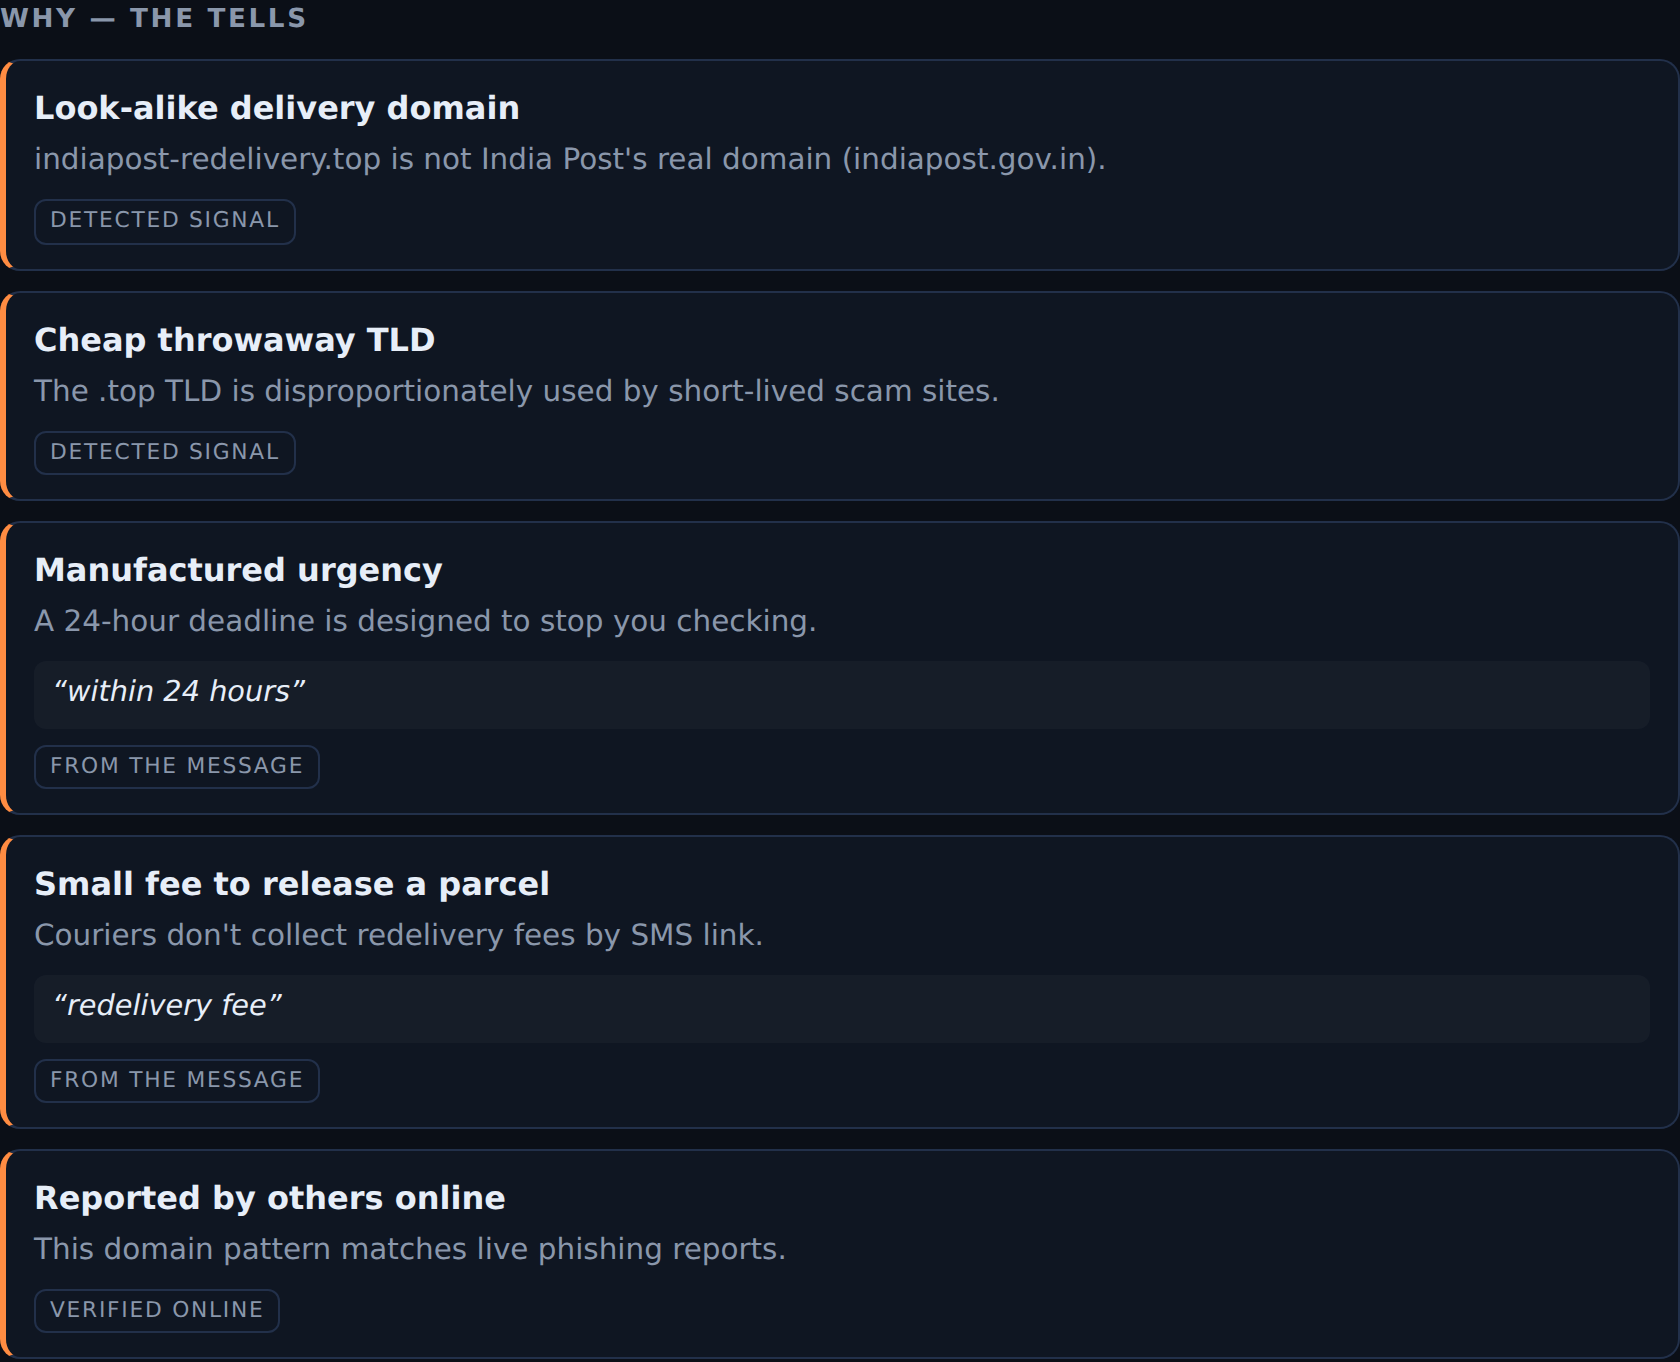
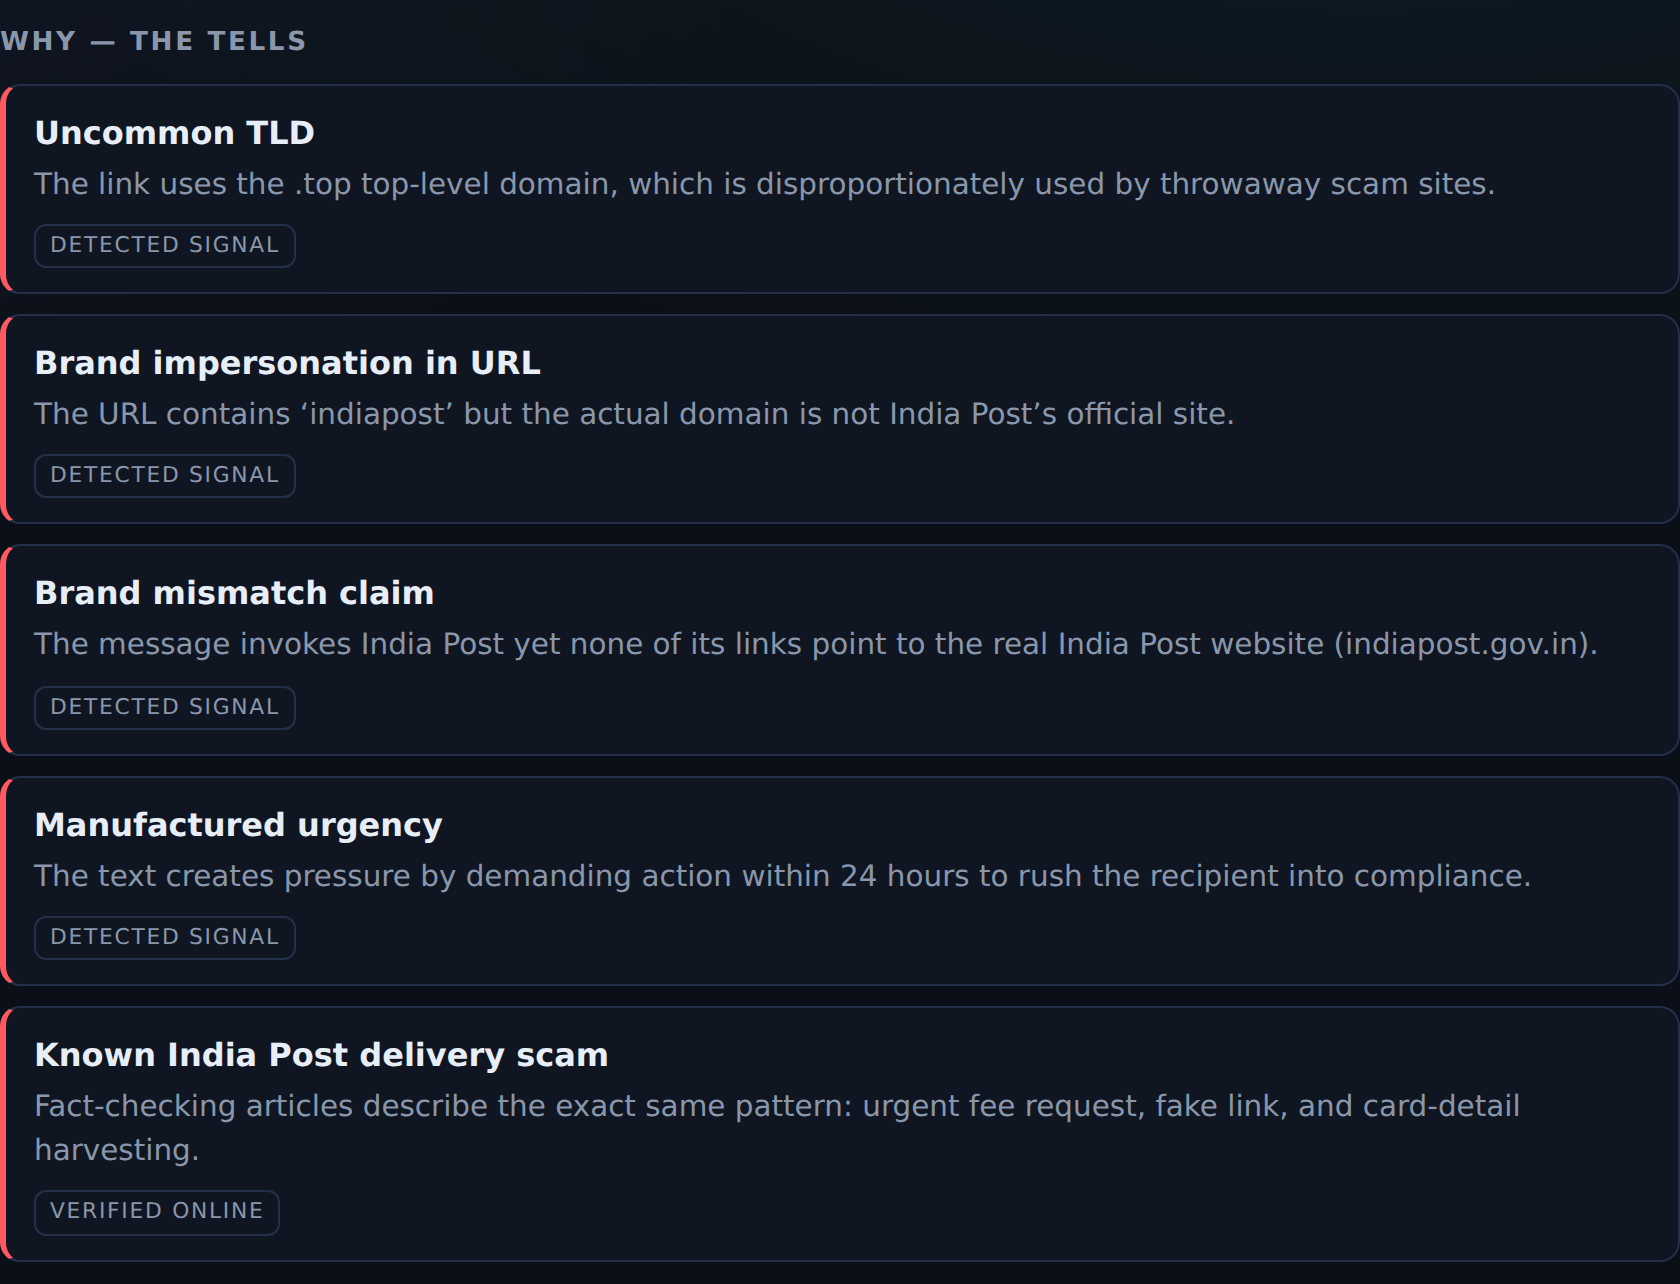
README: frame example run, make verdict wording live-safe; refresh docs screenshots

diff --git a/README.md b/README.md
@@ -11,7 +11,7 @@ push the risk below what the hard evidence already justifies.
 
 Reasoning: **NVIDIA Nemotron** on **Nebius Token Factory** · Live verification: **Tavily**
 
-**Live demo:** https://telltale-jawt.onrender.com &nbsp;·&nbsp; **Demo video:** _add your YouTube link_ &nbsp;·&nbsp; **Architecture:** [`docs/ARCHITECTURE.md`](docs/ARCHITECTURE.md)
+**Live demo:** https://telltale-jawt.onrender.com &nbsp;·&nbsp; **Demo video:** _ YouTube link_ &nbsp;·&nbsp; **Architecture:** [`docs/ARCHITECTURE.md`](docs/ARCHITECTURE.md)
 
 *Built for the 2026 Nebius × NVIDIA Global AI Hackathon.*
 
@@ -78,6 +78,8 @@ python eval/grounding.py     # Evidence Integrity Benchmark (no API key needed)
 
 ## What it looks like
 
+_These screenshots are one example run. Telltale calls Nemotron and Tavily live, so the exact score and the number of tells shift a little between runs. What never changes is that it flags this as a high-risk scam, never returns safe, and shows every finding backed by evidence._
+
 **1. Input** — paste a suspicious message, link, or screenshot, or try a built-in example (including the adversarial "Challenge Telltale" set).
 
 ![Input](docs/shot-1-input.png)
@@ -86,7 +88,7 @@ python eval/grounding.py     # Evidence Integrity Benchmark (no API key needed)
 
 ![Evidence](docs/shot-2-evidence.png)
 
-**3. Verification** — the Evidence check on every result: how many findings the model proposed, how many the evidence backed, and any it couldn't (rejected, with the reason). Here all five were backed; the verifier's rejection behaviour is measured reproducibly in the [Evidence Integrity Benchmark](docs/EVALUATION.md).
+**3. Verification** — the Evidence check on every result: how many findings the model proposed, how many the evidence backed, and any it couldn't (rejected, with the reason). In this example every finding was backed, and the exact count varies between runs because the analysis is live; the verifier's rejection behaviour is measured reproducibly in the [Evidence Integrity Benchmark](docs/EVALUATION.md).
 
 ![Verification](docs/shot-3-verification.png)
 
@@ -142,7 +144,7 @@ Pipeline:
 4. **Nemotron Super** synthesises a verdict; **`verify.py`** drops any tell it
    can't ground and clamps the score to the floor.
 
-Result: `HIGH · 78/100`, every tell bound to a signal, a source, or a quote, and
+Result: flagged as a high-risk scam in the `HIGH` to `CRITICAL` band, every tell bound to a signal, a source, or a quote, and
 an Evidence check panel showing what the model proposed versus what survived.
 
 ## Architecture
